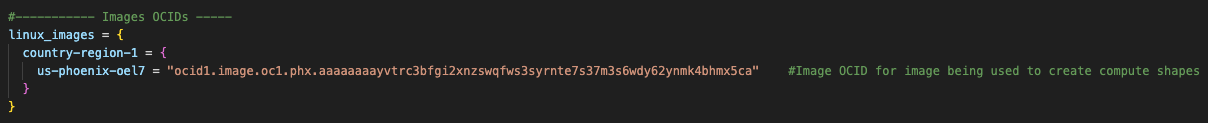
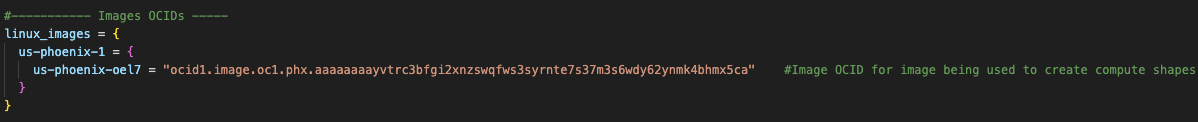
Deploy completed

diff --git a/terraform-infrastructure/deploy/deploy.md b/terraform-infrastructure/deploy/deploy.md
@@ -2,21 +2,15 @@
 
 ## Introduction
 
-This lab walks you through how to set up Infrastruce as code using Terraform on OCI. 
+This lab will go through deploying your terraform code and watch its creation from the console.
 
 Estimated Time: 60 minutes
 
-### About <Product/Technology> (Optional)
-We will be using OCI's Virtual Cloud Network, Compute instances, and Load Balancers along side Terraform.
-
 ### Objectives
-
-*List objectives for this lab using the format below*
 
 In this lab, you will:
 * Learn how to use/setup Terraform
 * Learn how to provision OCI resources through Terraform
-* Objective 3
 
 ### Prerequisites
 
@@ -24,79 +18,98 @@ This lab assumes you have:
 * An Oracle account
 * Familiarity with Networking is desirable, but not required
 * Some understanding of cloud, networking, and Terraform
-* Familiarity with Oracle Cloud Infrastructure (OCI) is helpful
+* Familiarity with Oracle Cloud Infrastructure is helpful
 
 
-*Below, is the "fold"--where items are collapsed by default.*
+## Task 1: Deploy your Terraform
 
-## Task 1: Concise Task Description
+**Terraform Initialize**
 
-(optional) Task 1 opening paragraph.
+On your local terminal, navigate to your directory where the tf-provider is located in. Once in the directory run the init command.
+```
+<copy>
+terraform init
+</copy>
+```
 
-1. Step 1
+Example output:
 
-	![Image alt text](images/sample1.png)
+![terraform-init](images/terraform-init.png)
 
-  To create a link to local file you want the reader to download, use the following formats. _The filename must be in lowercase letters and CANNOT include any spaces._
+**Terraform Plan**
 
-	Download the [starter file](files/starter-file.sql) SQL code.
+Next we will create an execution plan to check whether the changes shown in the execution plan match your expectations, without changing the real resources. Run the Terraform plan command
 
-	When the file type is recognized by the browser, it will attempt to render it. So you can use the following format to force the download dialog box.
+```
+<copy>
+terraform plan
+</copy>
+```
+This will provide you the plan. 
 
-	Download the [sample JSON code](files/sample.json?download=1).
+Example output:
 
-  > Note: do not include zip files, CSV, PDF, PSD, JAR, WAR, EAR, bin, or exe files - you must have those objects stored somewhere else. We highly recommend using Oracle Cloud Object Store and creating a PAR URL instead. See [Using Pre-Authenticated Requests](https://docs.cloud.oracle.com/en-us/iaas/Content/Object/Tasks/usingpreauthenticatedrequests.htm)
+![terraform-plan](images/terraform-plan.png)
+  
+**Terraform Apply** 
 
-2. Step 2
+Finally we will apply the plan, Run the terraform apply command. This command will take a couple of minutes to run. 
 
-  ![Image alt text](images/sample1.png)
+```
+<copy>
+terraform apply
+</copy>
+```
 
-4. Example with inline navigation icon ![Image alt text](images/sample2.png) click **Navigation**.
+Terraform will prompt you to enter yes when applying.
 
-5. Example with bold **text**.
+![terraform-apply-yes](images/terraform-apply-yes.png)
 
-   If you add another paragraph, add 3 spaces before the line.
+After running you will recieve outputs from the output.tf files. 
 
-## Task 2: Concise Task Description
+Example output:
 
-1. Step 1 - tables sample
+![terraform-apply](images/terraform-apply.png)
 
-  Use tables sparingly:
+In Addition if you have your console open you can see your resources get provisioned!
 
-  | Column 1 | Column 2 | Column 3 |
-  | --- | --- | --- |
-  | 1 | Some text or a link | More text  |
-  | 2 |Some text or a link | More text |
-  | 3 | Some text or a link | More text |
+![instances-console](images/instances-console.png)
 
-2. You can also include bulleted lists - make sure to indent 4 spaces:
+![loadbalancer-console](images/loadbalncer-console.png)
 
-    - List item 1
-    - List item 2
+## Task 2: Destroy your Terraform
 
-3. Code examples
+**Terraform Destroy**
 
-    ```
-    Adding code examples
-  	Indentation is important for the code example to appear inside the step
-    Multiple lines of code
-  	<copy>Enclose the text you want to copy in <copy></copy>.</copy>
-    ```
+On your local terminal, in the same directory as your tf-provider, we can tear down our infrastructure. Run the the terraform destroy command.
 
-4. Code examples that include variables
+```
+<copy>
+terraform destroy
+</copy>
+```
 
-	```
-  <copy>ssh -i <ssh-key-file></copy>
-  ```
+Terraform will prompt you to enter yes when destroying.
+
+![terraform-destroy-yes](images/terraform-destroy-yes.png)
+
+Example output:
+
+![terraform-destroy](images/terraform-destroy.png)
+
+Just like when you apply you can also watch your resources get destroyed on the console!
+
+![instances-console-destry](images/instances-console-destroy.png)
+
+Congratulations on finsihing this Livelab! Now you have a terraform template to use when provisioning resources on OCI!
 
 ## Learn More
 
 *(optional - include links to docs, white papers, blogs, etc)*
 
-* [URL text 1](http://docs.oracle.com)
-* [URL text 2](http://docs.oracle.com)
+* [CLI + Terraform](https://developer.hashicorp.com/terraform/tutorials/cli)
 
 ## Acknowledgements
-* **Author** - <Name, Title, Group>
-* **Contributors** -  <Name, Group> -- optional
-* **Last Updated By/Date** - <Name, Month Year>
+* **Author** - Germain Vargas, Cloud Engineer
+* **Contributors** -  David Ortega, Cloud Engineer
+* **Last Updated By/Date** - Germain Vargas, August 2023

diff --git a/terraform-infrastructure/compute/compute.md b/terraform-infrastructure/compute/compute.md
@@ -56,13 +56,6 @@ This lab assumes you have:
 us-phoenix-oel7 = "replace-phoenix-oraclelinux7-image-ocid"
 </copy>
 ```
-
-For other regions
-```
-<copy>
-country-region-oel7 = "replace-region-oraclelinux7-image-ocid"
-</copy>
-```
 Copy and paste the following to the Image OCIDs section of the terraform.tfvars file.
 
 In this [Documentation](https://docs.oracle.com/en-us/iaas/images/image/266adc03-7428-41fc-b17d-2f88ea56dff0/), you will be able to find Image OCIDs for Oracle Enterprise Linux 7. 
@@ -73,7 +66,7 @@ We will search for the Pheonix Region and find the Image OCID.
 
 We were able to find and implment our Image OCID needed to define out compute instances. Image OCIDs are software with configurations needed to launch our instances.
 
-After entering your Image OCID, you should have something similar to this. 
+If you are going to change the region please make sure to change the name of the data block to the correct region identifier **(us-phoenix-1)**. Below is the example of how the Phoenix region would look like.
 
 ![image-ocid-tf](images/image-ocid-tf.png)
 
@@ -361,6 +354,6 @@ Following this we use the remote-execution type of provisioner. The remote-execu
 * [Physical Architecture Concepts](https://docs.oracle.com/en-us/iaas/Content/GSG/Concepts/concepts-physical.htm)
 
 ## Acknowledgements
-* **Author** - <Name, Title, Group>
-* **Contributors** -  <Name, Group> -- optional
-* **Last Updated By/Date** - <Name, Month Year>
+* **Author** - Germain Vargas, Cloud Engineer
+* **Contributors** -  David Ortega, Cloud Engineer
+* **Last Updated By/Date** - Germain Vargas, August 2023

diff --git a/terraform-infrastructure/setup/setup.md b/terraform-infrastructure/setup/setup.md
@@ -163,7 +163,7 @@ A compartment is a logical folder where you can organize your resources. For thi
 
   After Installing Terraform, please download our Terraform Template as we will be using this for the rest of the lab. 
   
-  Download the [Terraform template](files/starter-file.sql) Terraform template. 
+  Download the [Terraform template](files/OCI_Terraform_LiveLab_Skeleton.zip).
 
 ## Learn More
 
@@ -171,8 +171,9 @@ A compartment is a logical folder where you can organize your resources. For thi
 * [Compartments](https://docs.oracle.com/en/cloud/foundation/cloud_architecture/governance/compartments.html#what-is-a-compartment)
 * [OCIDs](https://docs.oracle.com/en-us/iaas/Content/General/Concepts/identifiers.htm)
 * [OCI Provider](https://registry.terraform.io/providers/oracle/oci/latest/docs)
+* [Terraform + OCI](https://developer.hashicorp.com/terraform/tutorials/oci-get-started)
 
 ## Acknowledgements
 * **Author** - Germain Vargas, Cloud Engineer
-* **Contributors** -  David Ortega, Cloud Engineer and Hoyoung Kim, Cloud Engineer
-* **Last Updated By/Date** - Germain Vargas, July 2023
+* **Contributors** -  David Ortega, Cloud Engineer
+* **Last Updated By/Date** - Germain Vargas, August 2023
